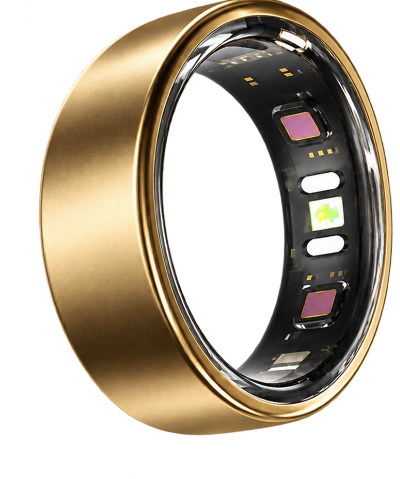
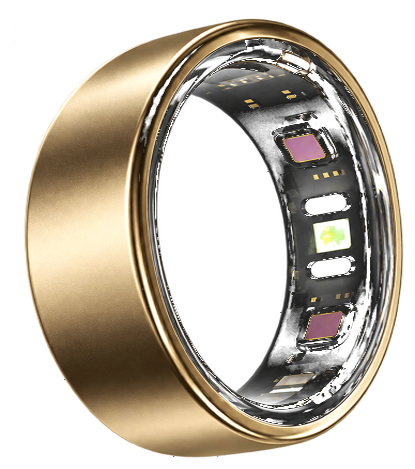
Fix gold ring distortion and lower saturation, add rear gradient aura light to live pulse animation

diff --git a/teaser6.html b/teaser6.html
@@ -1209,48 +1209,142 @@
       border-color: var(--accent-rose);
     }
 
-    /* Demo 2: Real-time Touch Heartbeat Ring */
+    /* Demo 2: Real-time Touch Heartbeat Ring & Rear Gradient Light */
     .ring-pulse-stage {
       text-align: center;
-      padding: 20px 0;
+      padding: 24px 0 16px;
       position: relative;
     }
 
     .ring-touch-target {
       position: relative;
-      width: 160px;
-      height: 160px;
+      width: 176px;
+      height: 176px;
       margin: 0 auto;
       cursor: pointer;
       display: flex;
       align-items: center;
       justify-content: center;
+      user-select: none;
+      -webkit-tap-highlight-color: transparent;
     }
 
-    .ring-pulse-wave {
+    /* Rear Ambient Light Glow behind the ring */
+    .ring-rear-glow {
       position: absolute;
-      inset: 0;
+      width: 140px;
+      height: 140px;
       border-radius: 50%;
-      border: 2px solid var(--accent-rose);
+      background: radial-gradient(circle, rgba(255, 77, 109, 0.42) 0%, rgba(255, 107, 107, 0.22) 42%, rgba(255, 77, 109, 0) 72%);
+      opacity: 0.3;
+      transition: opacity 0.5s ease, transform 0.5s ease;
+      pointer-events: none;
+      z-index: 1;
+      filter: blur(14px);
+    }
+
+    /* Expanding Rear Gradient Light Waves (Aurora Glow) */
+    .ring-pulse-light {
+      position: absolute;
+      inset: -16px;
+      border-radius: 50%;
+      background: radial-gradient(circle, rgba(255, 77, 109, 0.55) 0%, rgba(230, 57, 70, 0.26) 40%, rgba(255, 77, 109, 0) 72%);
       opacity: 0;
       pointer-events: none;
+      z-index: 1;
+      filter: blur(18px);
+    }
+
+    /* Expanding Pulse Lines */
+    .ring-pulse-wave {
+      position: absolute;
+      inset: 8px;
+      border-radius: 50%;
+      border: 1.5px solid rgba(255, 77, 109, 0.88);
+      box-shadow: 0 0 18px rgba(255, 77, 109, 0.65), inset 0 0 12px rgba(255, 77, 109, 0.35);
+      opacity: 0;
+      pointer-events: none;
+      z-index: 2;
+    }
+
+    /* Pulsing Animation Active States */
+    .ring-touch-target.pulsing .ring-rear-glow {
+      opacity: 0.95;
+      animation: rearGlowBreathe 1.6s infinite ease-in-out;
+    }
+
+    .ring-touch-target.pulsing .ring-pulse-light {
+      animation: lightWaveExpand 1.6s infinite cubic-bezier(0.2, 0.8, 0.2, 1);
     }
 
     .ring-touch-target.pulsing .ring-pulse-wave {
-      animation: waveExpand 1.6s infinite ease-out;
+      animation: waveExpand 1.6s infinite cubic-bezier(0.2, 0.8, 0.2, 1);
+    }
+
+    @keyframes rearGlowBreathe {
+      0%, 100% {
+        opacity: 0.75;
+        transform: scale(1.04);
+      }
+      50% {
+        opacity: 1;
+        transform: scale(1.24);
+      }
+    }
+
+    @keyframes lightWaveExpand {
+      0% {
+        transform: scale(0.6);
+        opacity: 0.9;
+      }
+      50% {
+        opacity: 0.65;
+      }
+      100% {
+        transform: scale(1.72);
+        opacity: 0;
+      }
     }
 
     @keyframes waveExpand {
-      0% { transform: scale(0.7); opacity: 0.9; }
-      100% { transform: scale(1.6); opacity: 0; }
+      0% {
+        transform: scale(0.65);
+        opacity: 0.95;
+        border-color: rgba(255, 120, 150, 0.95);
+      }
+      60% {
+        opacity: 0.6;
+      }
+      100% {
+        transform: scale(1.68);
+        opacity: 0;
+        border-color: rgba(255, 77, 109, 0.15);
+      }
     }
 
     .ring-center-img {
-      width: 120px;
-      height: 120px;
+      width: 126px;
+      height: 126px;
       object-fit: contain;
-      z-index: 2;
-      filter: drop-shadow(0 10px 20px rgba(0, 0, 0, 0.8));
+      z-index: 3;
+      filter: drop-shadow(0 14px 28px rgba(0, 0, 0, 0.95)) saturate(0.92);
+      transition: transform 0.3s cubic-bezier(0.16, 1, 0.3, 1);
+      position: relative;
+    }
+
+    .ring-touch-target:hover .ring-center-img {
+      transform: scale(1.04);
+    }
+
+    .ring-touch-target.pulsing .ring-center-img {
+      animation: ringHeartbeatThrob 0.8s infinite ease-in-out;
+    }
+
+    @keyframes ringHeartbeatThrob {
+      0%, 100% { transform: scale(1); }
+      25% { transform: scale(1.05); }
+      50% { transform: scale(0.98); }
+      75% { transform: scale(1.03); }
     }
 
     .touch-hint {
@@ -2112,6 +2206,11 @@
           <div class="interaction-demo-box">
             <div class="ring-pulse-stage">
               <div class="ring-touch-target" id="touch-ring-target" onclick="triggerHeartbeat()">
+                <!-- Rear Gradient Light Glow & Waves -->
+                <div class="ring-rear-glow"></div>
+                <div class="ring-pulse-light"></div>
+                <div class="ring-pulse-light" style="animation-delay: 0.6s;"></div>
+                <!-- Expanding Pulse Lines -->
                 <div class="ring-pulse-wave"></div>
                 <div class="ring-pulse-wave" style="animation-delay: 0.6s;"></div>
                 <img src="/assets/sai-ring-gold-clean.png" alt="Touch Ring" class="ring-center-img">
@@ -2985,6 +3084,8 @@
     function triggerHeartbeat() {
       const ringTarget = document.getElementById('touch-ring-target');
       const hapticMsg = document.getElementById('haptic-msg');
+      ringTarget.classList.remove('pulsing');
+      void ringTarget.offsetWidth; // force reflow for immediate restart
       ringTarget.classList.add('pulsing');
       
       const bpm = Math.floor(Math.random() * 8) + 72;
